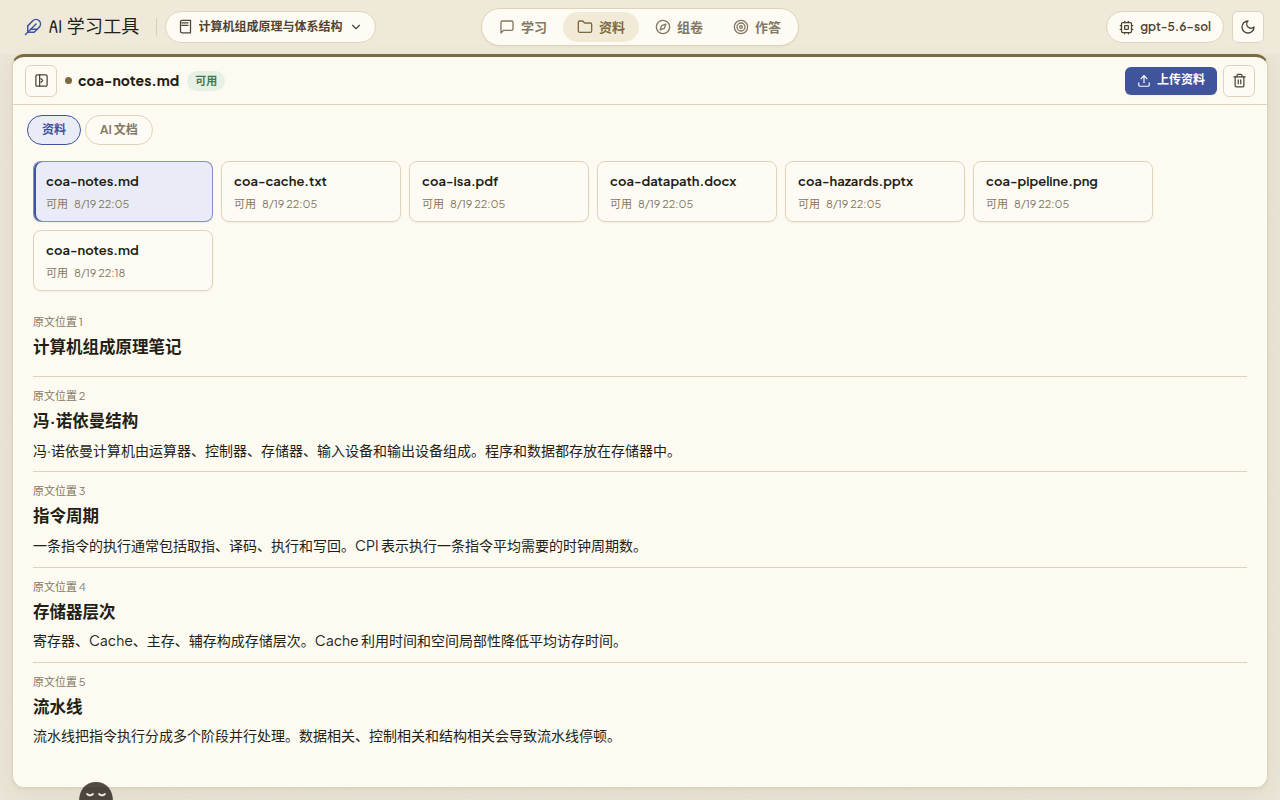
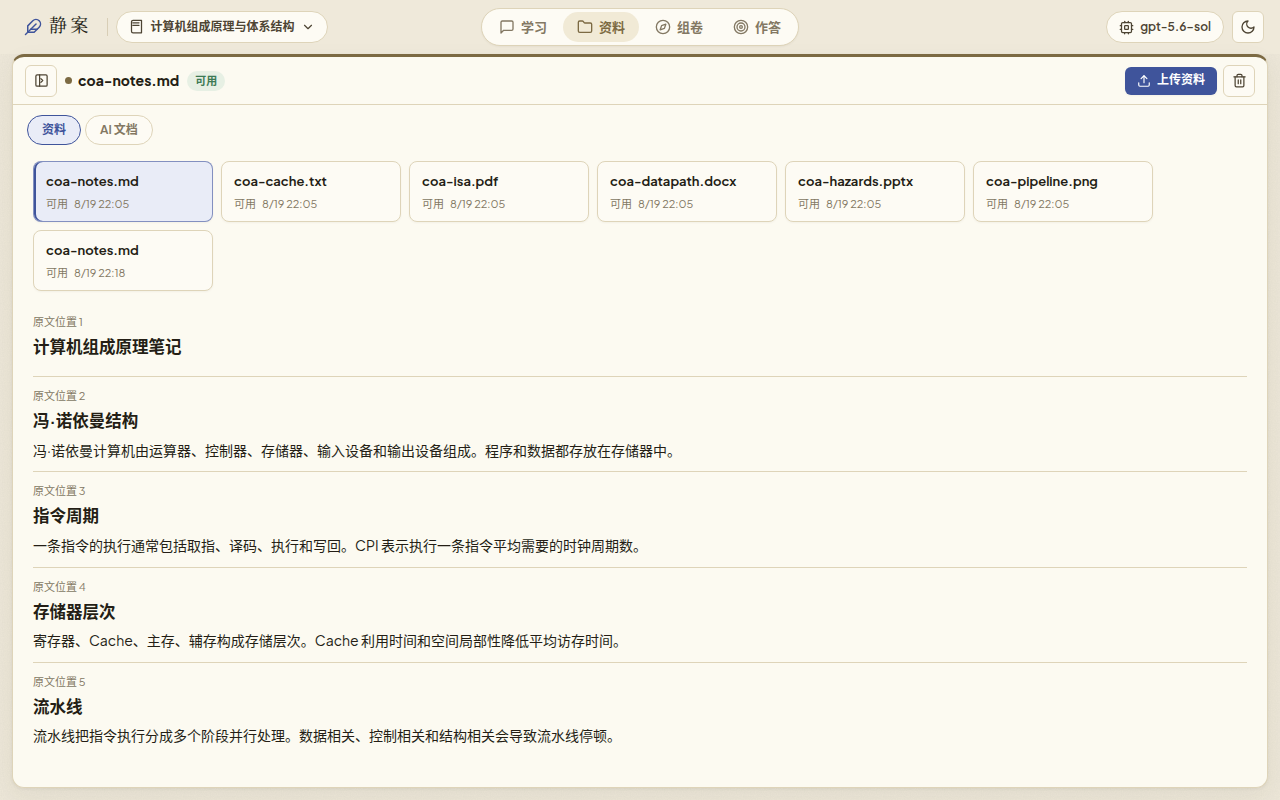
feat: name the product 静案 / Stilldesk
Window, README, and GitHub-facing copy use 静案. Screenshots retake the learning loop with the new brand; generated still-life art is not used.

Changed region(s): [[0.0312, 0.0, 0.3125, 0.0625], [0.0625, 0.9688, 0.0938, 1.0]]

diff --git a/frontend/styles.css b/frontend/styles.css
@@ -148,7 +148,7 @@ code, pre { font-family: var(--font-mono); }
 }
 .brand:hover { background: var(--bg-hover); }
 .brand-mark { color: var(--blue); display: flex; }
-.brand-name { font-family: var(--font-brand); font-size: 18px; letter-spacing: 0.2px; }
+.brand-name { font-family: var(--font-serif); font-size: 18px; letter-spacing: 0.18em; }
 .v-split { width: 1px; height: 18px; background: var(--border-strong); opacity: 0.6; }
 
 /* 工作区 tab：四色药丸 */

diff --git a/frontend/js/components/navbar.js b/frontend/js/components/navbar.js
@@ -12,7 +12,7 @@ export function navbarHtml(state) {
       <div class="nav-side nav-start">
         <button type="button" class="brand" data-action="go-learn" title="学习">
           <span class="brand-mark">${icons.feather(18)}</span>
-          <span class="brand-name">AI 学习工具</span>
+          <span class="brand-name">静案</span>
         </button>
         <span class="v-split"></span>
         <div class="dropdown">

diff --git a/frontend/index.html b/frontend/index.html
@@ -3,7 +3,7 @@
   <head>
     <meta charset="utf-8" />
     <meta name="viewport" content="width=device-width, initial-scale=1" />
-    <title>AI 学习工具</title>
+    <title>静案</title>
     <link rel="icon" href="/favicon.svg" type="image/svg+xml" />
     <link rel="stylesheet" href="/vendor/fonts/fonts.css" />
     <link rel="stylesheet" href="/styles.css" />

diff --git a/backend/app/__main__.py b/backend/app/__main__.py
@@ -68,7 +68,7 @@ def find_available_port(
 
 
 def parse_args(argv=None) -> argparse.Namespace:
-    parser = argparse.ArgumentParser(description="启动 AI 学习工具")
+    parser = argparse.ArgumentParser(description="启动静案")
     ui = parser.add_mutually_exclusive_group()
     ui.add_argument(
         "--desktop",
@@ -149,11 +149,11 @@ def show_fatal_error(message: str) -> None:
     if sys.platform == "win32":
         import ctypes
 
-        ctypes.windll.user32.MessageBoxW(0, message, "AI 学习工具", 0x10)
+        ctypes.windll.user32.MessageBoxW(0, message, "静案", 0x10)
         return
     if sys.platform == "darwin":
         subprocess.run(
-            ["osascript", "-e", f'display alert "AI 学习工具" message {json.dumps(message)} as critical'],
+            ["osascript", "-e", f'display alert "静案" message {json.dumps(message)} as critical'],
             check=False,
         )
         return

diff --git a/backend/app/main.py b/backend/app/main.py
@@ -102,7 +102,7 @@ def create_app(data_dir: str | os.PathLike | None = None, model_client=None, now
         yield
         await operations.shutdown()
 
-    app = FastAPI(title="Learning Loop Agent", lifespan=lifespan)
+    app = FastAPI(title="静案", lifespan=lifespan)
 
     @app.middleware("http")
     async def disable_frontend_cache(request, call_next):

diff --git a/backend/app/model_client.py b/backend/app/model_client.py
@@ -50,7 +50,7 @@ class ModelApiClient:
         headers = {
             "Content-Type": "application/json",
             "HTTP-Referer": "http://127.0.0.1:4173",
-            "X-Title": "Learning Loop",
+            "X-Title": "Stilldesk",
         }
         if profile.get("api_key"):
             headers["Authorization"] = f"Bearer {profile['api_key']}"

diff --git a/backend/app/learning.py b/backend/app/learning.py
@@ -281,7 +281,7 @@ class LearningService:
         headers = {
             "Accept": "application/json",
             "HTTP-Referer": "http://127.0.0.1:4173",
-            "X-Title": "Learning Loop",
+            "X-Title": "Stilldesk",
         }
         if payload.get("api_key"):
             headers["Authorization"] = f"Bearer {payload['api_key']}"

diff --git a/backend/tests/test_api.py b/backend/tests/test_api.py
@@ -141,7 +141,7 @@ def test_index_page_is_served(tmp_path):
     client, _ = make_client(tmp_path)
     response = client.get("/")
     assert response.status_code == 200
-    assert "AI 学习工具" in response.text
+    assert "静案" in response.text
 
 
 def test_update_model_resets_validation_to_unknown(tmp_path):

diff --git a/backend/app/desktop.py b/backend/app/desktop.py
@@ -8,7 +8,7 @@ import os
 import sys
 from pathlib import Path
 
-WINDOW_TITLE = "AI 学习工具"
+WINDOW_TITLE = "静案"
 DESKTOP_MISSING_MESSAGE = "缺少桌面窗口依赖，请先运行 pip install -r requirements-desktop.txt"
 WEBVIEW2_MESSAGE = (
     "需要 Microsoft Edge WebView2 才能打开窗口。"

diff --git a/backend/__init__.py b/backend/__init__.py
@@ -1,1 +1,1 @@
-"""AI 学习工具 backend package."""
+"""静案 backend package."""

diff --git a/README.md b/README.md
@@ -1,6 +1,6 @@
-# AI 学习工具
+# 静案
 
-对着自己的讲义出卷、作答、改错。本地运行，不用注册。
+Stilldesk. 对着自己的讲义出卷、作答、改错。本地运行，不用注册。
 
 一个人学一门课：资料上传一次，问答能点回原文，先确认题型再组卷，练习或考试，错了再练。网页、打印和 PDF 用同一份试卷。开发时也可以在浏览器里打开。
 
@@ -92,7 +92,7 @@ pip install -r requirements-desktop.txt
 bash packaging/build-macos.sh
 ```
 
-产物是 `dist/LearningLoop.app`（菜单栏显示「AI 学习工具」）。也可以在 GitHub Actions 里用 `desktop-build` workflow 打出 Windows / macOS 工件。
+产物是 `dist/LearningLoop.app`（菜单栏显示「静案」）。也可以在 GitHub Actions 里用 `desktop-build` workflow 打出 Windows / macOS 工件。
 
 开发时可用热重载：
 

diff --git a/CONTEXT.md b/CONTEXT.md
@@ -1,6 +1,6 @@
-# AI 学习工具
+# 静案
 
-面向个人学习者的 AI 学习工具，围绕资料、练习和学习过程形成可重复使用的学习闭环。
+面向个人学习者的本地学习工具，围绕资料、练习和学习过程形成可重复使用的学习闭环。对外名称是静案（Stilldesk）。
 
 ## Language
 
